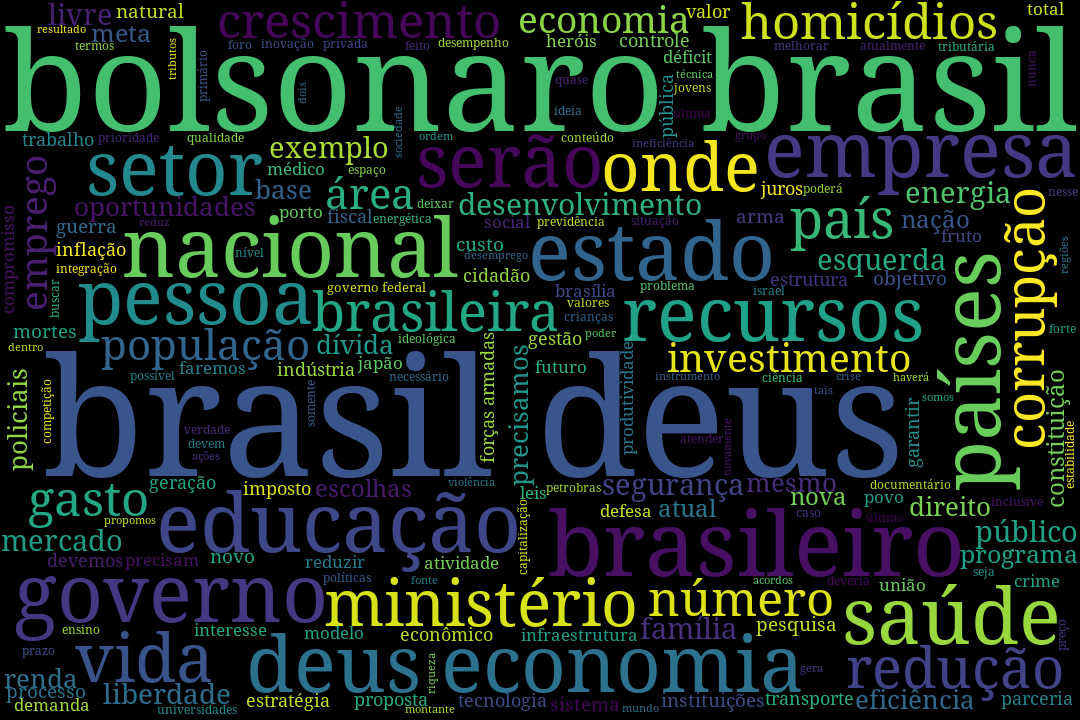
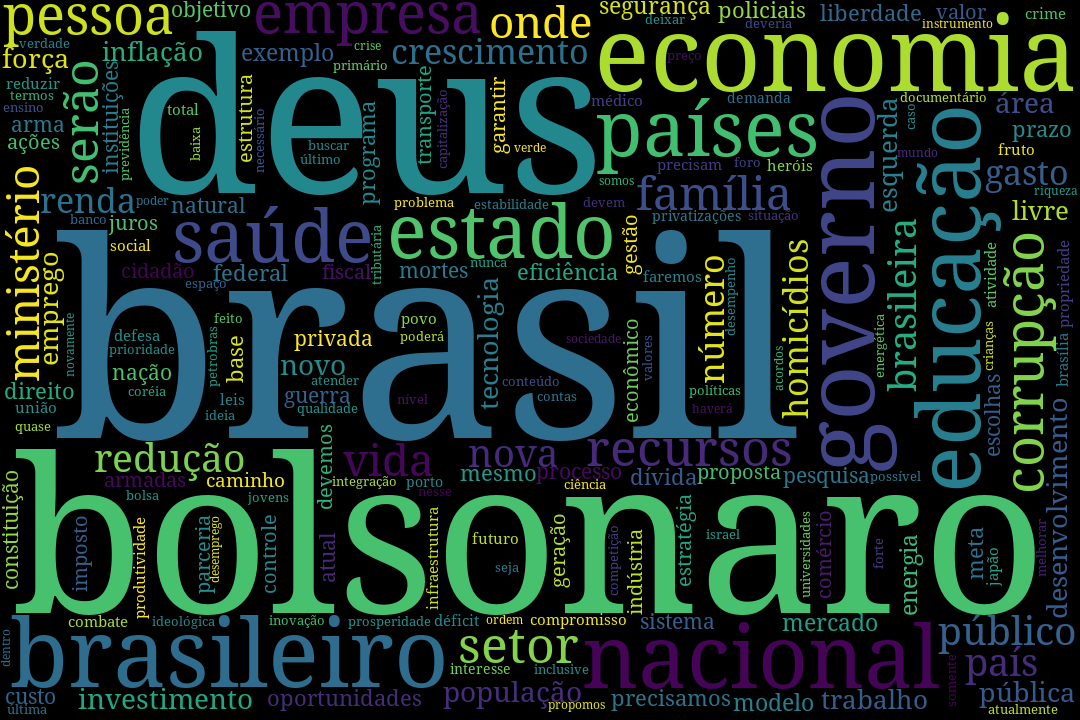
Remove bigramas da geração de nuvens
Por padrão, a biblioteca wordcloud considera conjuntos de duas palavras
na geração de uma nuvem de palavras. Isso pode causar a duplicação de
termos na saída uma vez que as palavras são consideradas tanto dentro de
bigramas como fora.

Esse commit deixa explícito para a biblioteca não utilizar bigramas e
atualiza as nuvens geradas com essa nova configuração.

Ver:

Parâmetro `collocation` em http://amueller.github.io/word_cloud/generated/wordcloud.WordCloud.html#wordcloud.WordCloud

diff --git a/gera_nuvens.py b/gera_nuvens.py
@@ -11,7 +11,7 @@ def main():
     Função principal que gera todas as nuvens com base
     nos planos de governo limpos e salva em arquivos
     """
-    
+
     # Obtém o caminho do diretório atual
     diretório_atual = dirname(__file__)
 
@@ -23,7 +23,8 @@ def main():
     # definindo suas dimensões e quantas palavras queremos no máximo,
     # as cores que queremos usar e a fonte
     word_cloud = WordCloud(width=1080, height=720,
-                           max_words=200, font_path=fonte)
+                           max_words=200, font_path=fonte,
+                           collocations=False)
 
     # Percorre todos os arquivos em planos-de-governo
     for arquivo in listdir('planos-de-governo/'):
